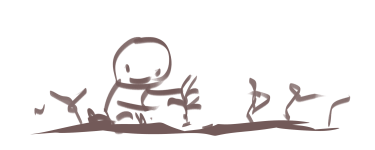
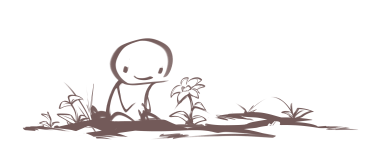
new photos

Changed region(s): [[0.0587, 0.24, 0.968, 0.9333], [0.88, 0.64, 0.9387, 0.7733]]

diff --git a/app/b/[boardId]/gallery.tsx b/app/b/[boardId]/gallery.tsx
@@ -184,15 +184,22 @@ export default function Gallery({
       {isEmpty && (
         <>
           {fileInput}
-          <div
-            className="absolute inset-0 flex flex-col items-center justify-center 
+          <div className="absolute inset-0 flex flex-col items-center justify-center ">
+            <div
+              className="w-fit h-fit flex flex-col items-center
         opacity-60 z-10 hover:opacity-90 transition-all duration-200 cursor-pointer"
-            onClick={triggerImagePicker}
-          >
-            <Image src="/1.png" alt="No images yet" width={375} height={150} />
-            <h3 className="text-primary text-sm">
-              No Images Yet! Drag one in or click here to add.
-            </h3>
+              onClick={triggerImagePicker}
+            >
+              <Image
+                src="/1.png"
+                alt="No images yet"
+                width={375}
+                height={150}
+              />
+              <h3 className="text-primary text-sm">
+                No Images Yet! Drag one in or click here to add.
+              </h3>
+            </div>
           </div>
         </>
       )}

diff --git a/app/not-found.tsx b/app/not-found.tsx
@@ -1,11 +1,13 @@
 import Link from "next/link";
 import { FaChevronLeft } from "react-icons/fa";
+import Image from "next/image";
 
 export default function NotFound() {
   return (
     <div className="min-h-screen flex flex-col items-center justify-center text-center px-4">
+      <Image src="/2.png" alt="Board not found" width={375} height={150} />
       <h1 className="text-3xl font-bold mb-2 text-primary">Board not found</h1>
-      <p className="text-muted-foreground mb-6">
+      <p className="text-muted-foreground mb-6 text-sm">
         The board you&apos;re looking for doesn&apos;t exist or has been
         deleted.
       </p>
